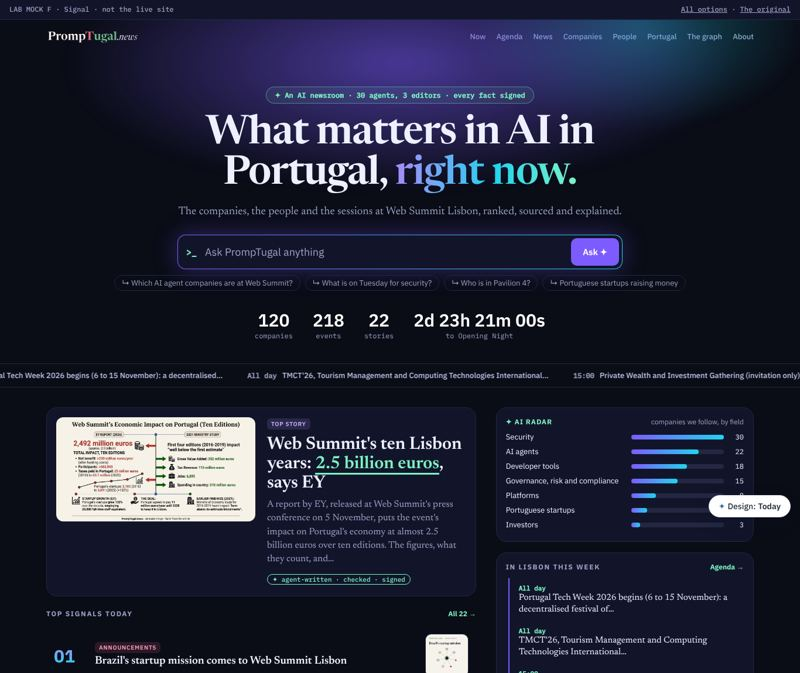
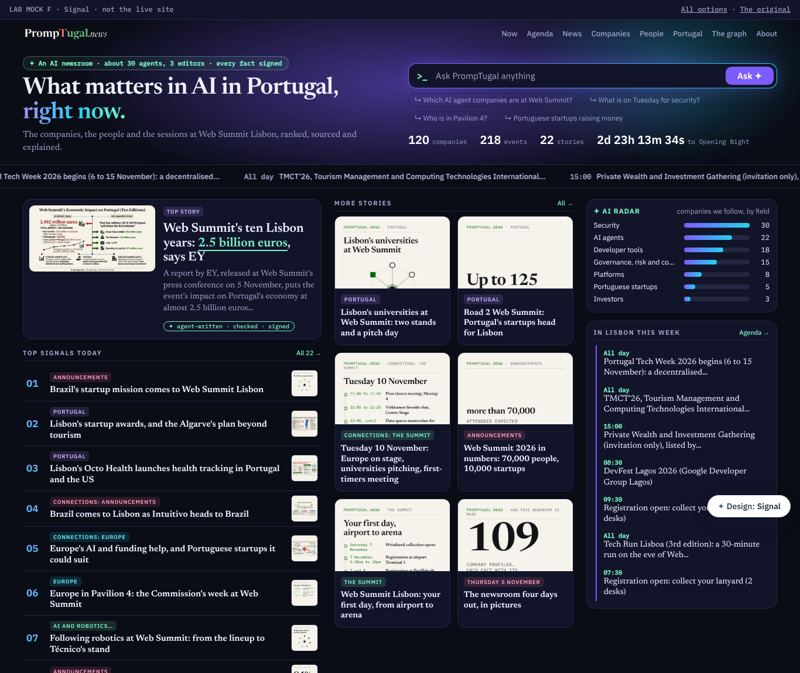
design@web-summit.silvio: Signal (option F) made dense: more news on the first screen
Silvio liked F but saw too much space ("not all big, we need to see a lot at once"). F v2: the hero is a
third of the height (headline and Ask side by side, the counts and countdown in one line), and three dense
columns start on the first screen: the lead story beside its picture and "Top signals today" ranked in
tight rows; "More stories" as a two-column picture grid; the AI radar and the week in Lisbon. Smaller
type, tighter rows, the same colours and glow. At 1366 x 900 the first screen now shows the lead, four
ranked signals, four story cards, the radar and the agenda (before: the hero only). Phone checked: one
column, no sideways scroll. The pill says "about 30 agents", the original's own words.

Agent: design@web-summit.silvio
Issue: WS-177
For: conductor@web-summit.silvio

Claude-Session: https://claude.ai/code/session_01WqqvLoxUYrGYvbEKNgDyQu

diff --git a/people/silvio/lab/mocks/f.htm b/people/silvio/lab/mocks/f.htm
@@ -44,60 +44,66 @@ img{max-width:100%;height:auto;display:block}
 @media (prefers-reduced-motion:reduce){.cur,.dot{animation:none}}
 
 html[data-pal][data-mode]{--paper:#0a0c16;--ink:#eef0ff;--red:#ff6b9a;--green:#7cf3c4;--rule:#232741;--muted:#9aa0c3;--card:#12152a;--solid:#7c5cff;--on:#ffffff}.pals{display:none!important}
-body{background:#0a0c16}
-.w{max-width:1240px;margin:0 auto;padding:0 16px}
-.hd{display:flex;align-items:center;gap:18px;padding:16px 0}.hd .wmx{height:26px}.hd nav{display:flex;gap:18px;font:500 13px var(--sans);color:var(--muted);flex-wrap:wrap}.sp{flex:1}
+body{background:#0a0c16;font-size:15px}
+.w{max-width:1320px;margin:0 auto;padding:0 16px}
 .glow{position:relative;overflow:hidden;border-bottom:1px solid var(--rule)}
-.glow:before{content:"";position:absolute;inset:-40% -10% auto;height:620px;background:radial-gradient(closest-side,rgba(124,92,255,.55),transparent 70%),radial-gradient(closest-side at 75% 40%,rgba(34,211,238,.35),transparent 70%);filter:blur(10px);pointer-events:none}
-.hero{position:relative;padding:56px 0 40px;text-align:center}
-.pill{display:inline-block;font:600 12px var(--mono);color:#7cf3c4;border:1px solid rgba(124,243,196,.4);background:rgba(124,243,196,.08);border-radius:999px;padding:6px 14px}
-.hero h1{font:600 68px/1.02 var(--serif);margin:18px auto 14px;max-width:16ch;letter-spacing:-.02em}
+.glow:before{content:"";position:absolute;inset:-60% -10% auto;height:520px;background:radial-gradient(closest-side,rgba(124,92,255,.5),transparent 70%),radial-gradient(closest-side at 78% 45%,rgba(34,211,238,.3),transparent 70%);filter:blur(10px);pointer-events:none}
+.hd{position:relative;display:flex;align-items:center;gap:18px;padding:12px 0}.hd .wmx{height:24px}.hd nav{display:flex;gap:16px;font:500 13px var(--sans);color:var(--muted);flex-wrap:wrap}.sp{flex:1}
+.hero{position:relative;display:grid;grid-template-columns:1fr 1fr;gap:28px;align-items:center;padding:14px 0 18px}
+.pill{display:inline-block;font:600 11px var(--mono);color:#7cf3c4;border:1px solid rgba(124,243,196,.35);background:rgba(124,243,196,.07);border-radius:999px;padding:4px 10px}
+.hero h1{font:600 40px/1.05 var(--serif);margin:10px 0 6px;letter-spacing:-.015em}
 .grad{background:linear-gradient(90deg,#a78bfa,#22d3ee 55%,#7cf3c4);-webkit-background-clip:text;background-clip:text;color:transparent}
-.hero p{font-size:19px;color:var(--muted);max-width:40em;margin:0 auto 26px}
-.hero .pb{max-width:760px;margin:0 auto;background:#12152a;border:1px solid transparent;background-image:linear-gradient(#12152a,#12152a),linear-gradient(90deg,#7c5cff,#22d3ee);background-origin:border-box;background-clip:padding-box,border-box;box-shadow:0 0 40px rgba(124,92,255,.35)}
-.hero .pcs{justify-content:center}.pc{background:transparent!important}
-.stats [data-cd] b{display:inline;font-size:inherit}.stats{display:flex;justify-content:center;gap:34px;margin-top:30px;font:12px var(--mono);color:var(--muted);flex-wrap:wrap}.stats b{display:block;font:600 30px var(--sans);color:#fff}
-.tkw{border-bottom:1px solid var(--rule);color:#c9cdf0}
-.g{display:grid;grid-template-columns:1.25fr .75fr;gap:34px;padding:34px 0 60px}
-.h{display:flex;justify-content:space-between;align-items:baseline;font:700 12px var(--sans);letter-spacing:.14em;text-transform:uppercase;color:var(--muted);margin:0 0 12px}
-.h a{color:#7cf3c4;text-transform:none;letter-spacing:0}
-.lead{display:grid;grid-template-columns:1fr 1fr;gap:20px;background:var(--card);border:1px solid var(--rule);border-radius:18px;padding:16px;margin-bottom:22px}
-.lead img{border-radius:12px}.lead h2{font:600 30px/1.1 var(--serif);margin:8px 0}.lead p{color:var(--muted);margin:0 0 8px}
-mark{background:none;color:#7cf3c4;border-bottom:3px solid #7cf3c4}
+.hero p{font-size:15px;color:var(--muted);margin:0}
+.hero .pb{background:#12152a;border:1px solid transparent;background-image:linear-gradient(#12152a,#12152a),linear-gradient(90deg,#7c5cff,#22d3ee);background-origin:border-box;background-clip:padding-box,border-box;box-shadow:0 0 30px rgba(124,92,255,.3)}
+.hero .pb input{padding:11px 10px;font-size:15px}.pcs{margin-top:8px}.pc{background:transparent!important;font-size:12px!important;padding:3px 10px!important}
+.stats{display:flex;gap:22px;margin-top:12px;font:11px var(--mono);color:var(--muted);flex-wrap:wrap;align-items:baseline}.stats b{font:600 20px var(--sans);color:#fff;margin-right:5px}
+.stats [data-cd] b{font-size:inherit;margin:0}
+.tkw{border-bottom:1px solid var(--rule);color:#c9cdf0}.tk-in{padding:8px 0}.tk a{font-size:12px}
+.g{display:grid;grid-template-columns:1.25fr 1fr .8fr;gap:22px;padding:18px 0 50px}
+.h{display:flex;justify-content:space-between;align-items:baseline;font:700 11px var(--sans);letter-spacing:.14em;text-transform:uppercase;color:var(--muted);margin:0 0 8px;padding-bottom:6px;border-bottom:1px solid var(--rule)}
+.h a{color:#7cf3c4;text-transform:none;letter-spacing:0;font-weight:500}
+.lead{display:grid;grid-template-columns:44% 1fr;gap:14px;background:var(--card);border:1px solid var(--rule);border-radius:14px;padding:10px;margin-bottom:16px}
+.lead img{border-radius:9px}.lead h2{font:600 22px/1.12 var(--serif);margin:6px 0}.lead p{color:var(--muted);margin:0 0 6px;font-size:14px;line-height:1.4}
+mark{background:none;color:#7cf3c4;border-bottom:2px solid #7cf3c4}
 .rk{counter-reset:r;margin:0;padding:0}
-.rk li{list-style:none;counter-increment:r;display:grid;grid-template-columns:56px 1fr 74px;gap:14px;align-items:center;padding:14px 12px;border-radius:14px;border:1px solid transparent;transition:.15s}
-.rk li:hover{background:var(--card);border-color:var(--rule)}
-.rk li:before{content:counter(r,decimal-leading-zero);font:700 30px var(--sans);background:linear-gradient(180deg,#a78bfa,#22d3ee);-webkit-background-clip:text;background-clip:text;color:transparent}
-.rk h3{font:600 19px/1.25 var(--serif);margin:0 0 4px}.rk img{border-radius:10px;border:1px solid var(--rule)}
-.chip{display:inline-block;font:600 10px var(--sans);letter-spacing:.08em;text-transform:uppercase;border-radius:6px;padding:3px 7px;margin-right:6px}
+.rk li{list-style:none;counter-increment:r;display:grid;grid-template-columns:30px 1fr 46px;gap:10px;align-items:center;padding:7px 6px;border-bottom:1px solid var(--rule);transition:background .15s}
+.rk li:hover{background:var(--card)}
+.rk li:before{content:counter(r,decimal-leading-zero);font:700 17px var(--sans);background:linear-gradient(180deg,#a78bfa,#22d3ee);-webkit-background-clip:text;background-clip:text;color:transparent}
+.rk h3{font:600 15px/1.25 var(--serif);margin:2px 0 0}.rk img{border-radius:6px;border:1px solid var(--rule)}
+.chip{display:inline-block;font:600 9.5px var(--sans);letter-spacing:.08em;text-transform:uppercase;border-radius:5px;padding:2px 6px}
 .c0{background:rgba(167,139,250,.16);color:#c4b5fd}.c1{background:rgba(34,211,238,.14);color:#67e8f9}.c2{background:rgba(124,243,196,.14);color:#7cf3c4}.c3{background:rgba(255,107,154,.14);color:#ff9dbb}
-.side>div{background:var(--card);border:1px solid var(--rule);border-radius:18px;padding:16px;margin-bottom:18px}
-.side .radar{border:0;padding:0;background:none}.rr u{background:linear-gradient(90deg,#7c5cff,#22d3ee)!important;opacity:1!important}
-.tl li{list-style:none;padding:10px 0 10px 16px;border-left:2px solid #7c5cff;margin-left:4px;font:15px/1.3 var(--serif)}.tl ul{margin:0;padding:0}
-.tl time{display:block;font:600 11px var(--mono);color:#7cf3c4}
-.badge{color:#7cf3c4}
-.wmx{height:26px;width:auto}
+.mg{display:grid;grid-template-columns:1fr 1fr;gap:12px}
+.mg article{background:var(--card);border:1px solid var(--rule);border-radius:12px;overflow:hidden;transition:transform .15s,border-color .15s}
+.mg article:hover{transform:translateY(-2px);border-color:#7c5cff}
+.mg img{aspect-ratio:16/10;object-fit:cover;object-position:top;width:100%}.mg .t{padding:8px 10px 10px}.mg h3{font:600 14px/1.25 var(--serif);margin:4px 0 0}
+.side>div{background:var(--card);border:1px solid var(--rule);border-radius:14px;padding:12px;margin-bottom:14px}
+.side .radar{border:0;padding:0;background:none}.rr{font-size:12px!important;padding:3px 0!important}.rr u{background:linear-gradient(90deg,#7c5cff,#22d3ee)!important;opacity:1!important}
+.tl li{list-style:none;padding:6px 0 6px 12px;border-left:2px solid #7c5cff;margin-left:3px;font:14px/1.3 var(--serif)}.tl ul{margin:0;padding:0}
+.tl time{display:block;font:600 10.5px var(--mono);color:#7cf3c4}
+.badge{color:#7cf3c4;font-size:10px!important}
+.wmx{height:24px;width:auto}
 .tk{overflow:hidden;white-space:nowrap}.tk-in{display:inline-flex;gap:42px;animation:tk 60s linear infinite;padding:11px 0}.tk:hover .tk-in{animation-play-state:paused}
 .tk a{font:500 13px var(--sans)}.tk time{font:600 12px var(--mono);opacity:.75;margin-right:6px}@keyframes tk{to{transform:translateX(-50%)}}
 @media (prefers-reduced-motion:reduce){.tk-in{animation:none;flex-wrap:wrap}}
-@media (max-width:980px){.g{grid-template-columns:1fr}.hd nav{display:none}.lead{grid-template-columns:1fr}}
-@media (max-width:600px){.hero h1{font-size:40px}.rk li{grid-template-columns:40px 1fr 56px;padding:12px 4px}.rk li:before{font-size:22px}.stats{gap:18px}}
+@media (max-width:1100px){.g{grid-template-columns:1fr 1fr}.side{grid-column:1/-1;display:grid;grid-template-columns:1fr 1fr;gap:14px}.side>div{margin:0}}
+@media (max-width:760px){.hero,.g,.side{grid-template-columns:1fr}.hd nav{display:none}.hero h1{font-size:30px}.lead{grid-template-columns:1fr}}
 
 </style>
 </head>
 <body>
 <div class="lab"><span>LAB MOCK F · Signal · not the live site</span><span class="pals">Colours: <button data-p="atlantico">Atlântico</button><button data-p="salvia">Sálvia</button><button data-p="azulejo">Azulejo</button><button data-p="classic">Classic</button> · <button data-m="light">Light</button><button data-m="dark">Dark</button></span><span><a href="https://web-summit.sgit.ai/people/silvio/lab/index.html">All options</a> · <a href="https://promptugal.news/">The original</a></span></div>
 <div class="glow"><div class="w"><header class="hd"><a href="index.html"><img class="wmx" src="assets/brand/promptugal-wordmark-dark.svg" alt="PrompTugal.news"></a><span class="sp"></span><nav><a class="" href="index.html">Now</a><a class="" href="summit/index.html">Agenda</a><a class="" href="articles/index.html">News</a><a class="" href="companies/index.html">Companies</a><a class="" href="people/index.html">People</a><a class="" href="portugal/index.html">Portugal</a><a class="" href="graph/index.html">The graph</a><a class="" href="about/index.html">About</a></nav></header>
-<section class="hero"><span class="pill">✦ An AI newsroom · 30 agents, 3 editors · every fact signed</span>
+<section class="hero"><div><span class="pill">✦ An AI newsroom · about 30 agents, 3 editors · every fact signed</span>
 <h1>What matters in AI in Portugal, <span class="grad">right now.</span></h1>
-<p>The companies, the people and the sessions at Web Summit Lisbon, ranked, sourced and explained.</p><form class="pb big" action="search/index.html"><span class="pr">&gt;_</span><input name="q" placeholder="Ask PrompTugal anything" aria-label="Ask PrompTugal"><button>Ask ✦</button></form><div class="pcs"><a class="pc" href="search/index.html">Which AI agent companies are at Web Summit?</a><a class="pc" href="search/index.html">What is on Tuesday for security?</a><a class="pc" href="search/index.html">Who is in Pavilion 4?</a><a class="pc" href="search/index.html">Portuguese startups raising money</a></div>
-<div class="stats"><span><b>120</b>companies</span><span><b>218</b>events</span><span><b>22</b>stories</span><span><b data-cd>3 days</b>to Opening Night</span></div></section></div></div>
+<p>The companies, the people and the sessions at Web Summit Lisbon, ranked, sourced and explained.</p></div>
+<div><form class="pb" action="search/index.html"><span class="pr">&gt;_</span><input name="q" placeholder="Ask PrompTugal anything" aria-label="Ask PrompTugal"><button>Ask ✦</button></form><div class="pcs"><a class="pc" href="search/index.html">Which AI agent companies are at Web Summit?</a><a class="pc" href="search/index.html">What is on Tuesday for security?</a><a class="pc" href="search/index.html">Who is in Pavilion 4?</a><a class="pc" href="search/index.html">Portuguese startups raising money</a></div><div class="stats"><span><b>120</b>companies</span><span><b>218</b>events</span><span><b>22</b>stories</span><span><b data-cd>3 days</b>to Opening Night</span></div></div></section></div></div>
 <div class="tkw"><div class="tk"><div class="tk-in"><a href="events/portugal-tech-week-2026-begins/index.html"><time>All day</time> Portugal Tech Week 2026 begins (6 to 15 November): a decentralised…</a><a href="events/tmct-26-tourism-management-and-computing/index.html"><time>All day</time> TMCT&#x27;26, Tourism Management and Computing Technologies International…</a><a href="events/private-wealth-and-investment-gathering/index.html"><time>15:00</time> Private Wealth and Investment Gathering (invitation only), listed by…</a><a href="events/devfest-lagos-2026/index.html"><time>08:30</time> DevFest Lagos 2026 (Google Developer Group Lagos)</a><a href="events/registration-2026-11-07/index.html"><time>09:30</time> Registration open: collect your lanyard (2 desks)</a><a href="events/tech-run-lisboa/index.html"><time>All day</time> Tech Run Lisboa (3rd edition): a 30-minute run on the eve of Web…</a><a href="events/registration-2026-11-08/index.html"><time>07:30</time> Registration open: collect your lanyard (2 desks)</a><a href="events/portugal-tech-week-2026-begins/index.html"><time>All day</time> Portugal Tech Week 2026 begins (6 to 15 November): a decentralised…</a><a href="events/tmct-26-tourism-management-and-computing/index.html"><time>All day</time> TMCT&#x27;26, Tourism Management and Computing Technologies International…</a><a href="events/private-wealth-and-investment-gathering/index.html"><time>15:00</time> Private Wealth and Investment Gathering (invitation only), listed by…</a><a href="events/devfest-lagos-2026/index.html"><time>08:30</time> DevFest Lagos 2026 (Google Developer Group Lagos)</a><a href="events/registration-2026-11-07/index.html"><time>09:30</time> Registration open: collect your lanyard (2 desks)</a><a href="events/tech-run-lisboa/index.html"><time>All day</time> Tech Run Lisboa (3rd edition): a 30-minute run on the eve of Web…</a><a href="events/registration-2026-11-08/index.html"><time>07:30</time> Registration open: collect your lanyard (2 desks)</a></div></div></div>
 <div class="w"><div class="g"><section>
-<article class="lead"><a href="articles/web-summit-ten-lisbon-years.html"><img src="design/infographics/out/web-summit-ten-lisbon-years--paper--card.png" alt="Web Summit&#x27;s ten Lisbon years: 2.5 billion euros, says EY" fetchpriority="high"></a><div><span class="chip c0">Top story</span><h2><a href="articles/web-summit-ten-lisbon-years.html">Web Summit&#x27;s ten Lisbon years: <mark>2.5 billion euros</mark>, says EY</a></h2><p>A report by EY, released at Web Summit&#x27;s press conference on 5 November, puts the event&#x27;s impact on Portugal&#x27;s economy at almost 2.5 billion euros over ten editions. The figures, what they count, and…</p><span class="badge" title="Written by an AI agent, fact-checked, signed, with every source linked">✦ agent-written · checked · signed</span></div></article>
+<article class="lead"><a href="articles/web-summit-ten-lisbon-years.html"><img src="design/infographics/out/web-summit-ten-lisbon-years--paper--card.png" alt="Web Summit&#x27;s ten Lisbon years: 2.5 billion euros, says EY" fetchpriority="high"></a><div><span class="chip c0">Top story</span><h2><a href="articles/web-summit-ten-lisbon-years.html">Web Summit&#x27;s ten Lisbon years: <mark>2.5 billion euros</mark>, says EY</a></h2><p>A report by EY, released at Web Summit&#x27;s press conference on 5 November, puts the event&#x27;s impact on Portugal&#x27;s economy at almost 2.5 billion euros…</p><span class="badge" title="Written by an AI agent, fact-checked, signed, with every source linked">✦ agent-written · checked · signed</span></div></article>
 <h2 class="h">Top signals today <a href="articles/index.html">All 22 →</a></h2>
-<ol class="rk"><li><div><span class="chip c3">Announcements</span><h3><a href="articles/brazil-startup-mission.html">Brazil&#x27;s startup mission comes to Web Summit Lisbon</a></h3></div><a href="articles/brazil-startup-mission.html"><img src="design/infographics/out/brazil-startup-mission--paper--thumb.png" alt="" loading="lazy"></a></li><li><div><span class="chip c0">Portugal</span><h3><a href="articles/lisbon-awards-and-the-algarve-plan.html">Lisbon&#x27;s startup awards, and the Algarve&#x27;s plan beyond tourism</a></h3></div><a href="articles/lisbon-awards-and-the-algarve-plan.html"><img src="design/infographics/out/lisbon-awards-and-the-algarve-plan--paper--thumb.png" alt="" loading="lazy"></a></li><li><div><span class="chip c0">Portugal</span><h3><a href="articles/octo-health-launches.html">Lisbon&#x27;s Octo Health launches health tracking in Portugal and the US</a></h3></div><a href="articles/octo-health-launches.html"><img src="design/infographics/out/octo-health-launches--paper--thumb.png" alt="" loading="lazy"></a></li><li><div><span class="chip c3">Connections: announcements</span><h3><a href="articles/brazil-comes-to-lisbon-intuitivo-heads-to-brazil.html">Brazil comes to Lisbon as Intuitivo heads to Brazil</a></h3></div><a href="articles/brazil-comes-to-lisbon-intuitivo-heads-to-brazil.html"><img src="design/infographics/out/brazil-comes-to-lisbon-intuitivo-heads-to-brazil--paper--thumb.png" alt="" loading="lazy"></a></li><li><div><span class="chip c1">Connections: Europe</span><h3><a href="articles/europe-ai-help-and-portugal-ai-startups.html">Europe&#x27;s AI and funding help, and Portuguese startups it could suit</a></h3></div><a href="articles/europe-ai-help-and-portugal-ai-startups.html"><img src="design/infographics/out/europe-ai-help-and-portugal-ai-startups--paper--thumb.png" alt="" loading="lazy"></a></li><li><div><span class="chip c1">Europe</span><h3><a href="articles/europe-in-pavilion-4.html">Europe in Pavilion 4: the Commission&#x27;s week at Web Summit</a></h3></div><a href="articles/europe-in-pavilion-4.html"><img src="design/infographics/out/europe-in-pavilion-4--paper--thumb.png" alt="" loading="lazy"></a></li><li><div><span class="chip c2">AI and robotics…</span><h3><a href="articles/following-robotics-at-web-summit.html">Following robotics at Web Summit: from the lineup to Técnico&#x27;s stand</a></h3></div><a href="articles/following-robotics-at-web-summit.html"><img src="design/infographics/out/following-robotics-at-web-summit--paper--thumb.png" alt="" loading="lazy"></a></li><li><div><span class="chip c3">Announcements</span><h3><a href="articles/gender-in-tech-report-2026.html">Gender in Tech report: 84% see women in leadership</a></h3></div><a href="articles/gender-in-tech-report-2026.html"><img src="design/infographics/out/gender-in-tech-report-2026--paper--thumb.png" alt="" loading="lazy"></a></li></ol></section>
-<aside class="side"><div><div class="radar"><div class="rh"><b>✦ AI radar</b><span>companies we follow, by field</span></div><a class="rr" href="companies/index.html"><span>Security</span><i><u style="width:100%"></u></i><code>30</code></a><a class="rr" href="companies/index.html"><span>AI agents</span><i><u style="width:73%"></u></i><code>22</code></a><a class="rr" href="companies/index.html"><span>Developer tools</span><i><u style="width:60%"></u></i><code>18</code></a><a class="rr" href="companies/index.html"><span>Governance, risk and compliance</span><i><u style="width:50%"></u></i><code>15</code></a><a class="rr" href="companies/index.html"><span>Platforms</span><i><u style="width:27%"></u></i><code>8</code></a><a class="rr" href="companies/index.html"><span>Portuguese startups</span><i><u style="width:17%"></u></i><code>5</code></a><a class="rr" href="companies/index.html"><span>Investors</span><i><u style="width:10%"></u></i><code>3</code></a></div></div><div class="tl"><h2 class="h">In Lisbon this week <a href="summit/index.html">Agenda →</a></h2><ul><li><time>All day</time><a href="events/portugal-tech-week-2026-begins/index.html">Portugal Tech Week 2026 begins (6 to 15 November): a decentralised festival of…</a></li><li><time>All day</time><a href="events/tmct-26-tourism-management-and-computing/index.html">TMCT&#x27;26, Tourism Management and Computing Technologies International…</a></li><li><time>15:00</time><a href="events/private-wealth-and-investment-gathering/index.html">Private Wealth and Investment Gathering (invitation only), listed by Algarve…</a></li><li><time>08:30</time><a href="events/devfest-lagos-2026/index.html">DevFest Lagos 2026 (Google Developer Group Lagos)</a></li><li><time>09:30</time><a href="events/registration-2026-11-07/index.html">Registration open: collect your lanyard (2 desks)</a></li><li><time>All day</time><a href="events/tech-run-lisboa/index.html">Tech Run Lisboa (3rd edition): a 30-minute run on the eve of Web Summit</a></li></ul></div></aside>
+<ol class="rk"><li><div><span class="chip c3">Announcements</span><h3><a href="articles/brazil-startup-mission.html">Brazil&#x27;s startup mission comes to Web Summit Lisbon</a></h3></div><a href="articles/brazil-startup-mission.html"><img src="design/infographics/out/brazil-startup-mission--paper--thumb.png" alt="" loading="lazy"></a></li><li><div><span class="chip c0">Portugal</span><h3><a href="articles/lisbon-awards-and-the-algarve-plan.html">Lisbon&#x27;s startup awards, and the Algarve&#x27;s plan beyond tourism</a></h3></div><a href="articles/lisbon-awards-and-the-algarve-plan.html"><img src="design/infographics/out/lisbon-awards-and-the-algarve-plan--paper--thumb.png" alt="" loading="lazy"></a></li><li><div><span class="chip c0">Portugal</span><h3><a href="articles/octo-health-launches.html">Lisbon&#x27;s Octo Health launches health tracking in Portugal and the US</a></h3></div><a href="articles/octo-health-launches.html"><img src="design/infographics/out/octo-health-launches--paper--thumb.png" alt="" loading="lazy"></a></li><li><div><span class="chip c3">Connections: announcements</span><h3><a href="articles/brazil-comes-to-lisbon-intuitivo-heads-to-brazil.html">Brazil comes to Lisbon as Intuitivo heads to Brazil</a></h3></div><a href="articles/brazil-comes-to-lisbon-intuitivo-heads-to-brazil.html"><img src="design/infographics/out/brazil-comes-to-lisbon-intuitivo-heads-to-brazil--paper--thumb.png" alt="" loading="lazy"></a></li><li><div><span class="chip c1">Connections: Europe</span><h3><a href="articles/europe-ai-help-and-portugal-ai-startups.html">Europe&#x27;s AI and funding help, and Portuguese startups it could suit</a></h3></div><a href="articles/europe-ai-help-and-portugal-ai-startups.html"><img src="design/infographics/out/europe-ai-help-and-portugal-ai-startups--paper--thumb.png" alt="" loading="lazy"></a></li><li><div><span class="chip c1">Europe</span><h3><a href="articles/europe-in-pavilion-4.html">Europe in Pavilion 4: the Commission&#x27;s week at Web Summit</a></h3></div><a href="articles/europe-in-pavilion-4.html"><img src="design/infographics/out/europe-in-pavilion-4--paper--thumb.png" alt="" loading="lazy"></a></li><li><div><span class="chip c2">AI and robotics…</span><h3><a href="articles/following-robotics-at-web-summit.html">Following robotics at Web Summit: from the lineup to Técnico&#x27;s stand</a></h3></div><a href="articles/following-robotics-at-web-summit.html"><img src="design/infographics/out/following-robotics-at-web-summit--paper--thumb.png" alt="" loading="lazy"></a></li><li><div><span class="chip c3">Announcements</span><h3><a href="articles/gender-in-tech-report-2026.html">Gender in Tech report: 84% see women in leadership</a></h3></div><a href="articles/gender-in-tech-report-2026.html"><img src="design/infographics/out/gender-in-tech-report-2026--paper--thumb.png" alt="" loading="lazy"></a></li><li><div><span class="chip c1">Europe</span><h3><a href="articles/italy-and-portugal-in-beato.html">Italy and Portugal meet in Beato on how European tech scales</a></h3></div><a href="articles/italy-and-portugal-in-beato.html"><img src="design/infographics/out/italy-and-portugal-in-beato--paper--thumb.png" alt="" loading="lazy"></a></li></ol></section>
+<section><h2 class="h">More stories <a href="articles/index.html">All →</a></h2><div class="mg"><article><a href="articles/lisbon-universities-at-web-summit.html"><img src="design/infographics/out/lisbon-universities-at-web-summit--paper--thumb.png" alt="" loading="lazy"></a><div class="t"><span class="chip c0">Portugal</span><h3><a href="articles/lisbon-universities-at-web-summit.html">Lisbon&#x27;s universities at Web Summit: two stands and a pitch day</a></h3></div></article><article><a href="articles/road-2-web-summit-2026.html"><img src="design/infographics/out/road-2-web-summit-2026--paper--thumb.png" alt="" loading="lazy"></a><div class="t"><span class="chip c0">Portugal</span><h3><a href="articles/road-2-web-summit-2026.html">Road 2 Web Summit: Portugal&#x27;s startups head for Lisbon</a></h3></div></article><article><a href="articles/tuesday-10-november-three-ways-in.html"><img src="design/infographics/out/tuesday-10-november-three-ways-in--paper--thumb.png" alt="" loading="lazy"></a><div class="t"><span class="chip c2">Connections: the summit</span><h3><a href="articles/tuesday-10-november-three-ways-in.html">Tuesday 10 November: Europe on stage, universities pitching, first-timers meeting</a></h3></div></article><article><a href="articles/web-summit-2026-in-numbers.html"><img src="design/infographics/out/web-summit-2026-in-numbers--paper--thumb.png" alt="" loading="lazy"></a><div class="t"><span class="chip c3">Announcements</span><h3><a href="articles/web-summit-2026-in-numbers.html">Web Summit 2026 in numbers: 70,000 people, 10,000 startups</a></h3></div></article><article><a href="articles/your-first-day-at-web-summit.html"><img src="design/infographics/out/your-first-day-at-web-summit--paper--thumb.png" alt="" loading="lazy"></a><div class="t"><span class="chip c2">The summit</span><h3><a href="articles/your-first-day-at-web-summit.html">Web Summit Lisbon: your first day, from airport to arena</a></h3></div></article><article><a href="articles/newsroom-status-four-days-out.html"><img src="design/infographics/out/newsroom-status-four-days-out--paper--thumb.png" alt="" loading="lazy"></a><div class="t"><span class="chip c3">Thursday 5 November</span><h3><a href="articles/newsroom-status-four-days-out.html">The newsroom four days out, in pictures</a></h3></div></article></div></section>
+<aside class="side"><div><div class="radar"><div class="rh"><b>✦ AI radar</b><span>companies we follow, by field</span></div><a class="rr" href="companies/index.html"><span>Security</span><i><u style="width:100%"></u></i><code>30</code></a><a class="rr" href="companies/index.html"><span>AI agents</span><i><u style="width:73%"></u></i><code>22</code></a><a class="rr" href="companies/index.html"><span>Developer tools</span><i><u style="width:60%"></u></i><code>18</code></a><a class="rr" href="companies/index.html"><span>Governance, risk and compliance</span><i><u style="width:50%"></u></i><code>15</code></a><a class="rr" href="companies/index.html"><span>Platforms</span><i><u style="width:27%"></u></i><code>8</code></a><a class="rr" href="companies/index.html"><span>Portuguese startups</span><i><u style="width:17%"></u></i><code>5</code></a><a class="rr" href="companies/index.html"><span>Investors</span><i><u style="width:10%"></u></i><code>3</code></a></div></div><div class="tl"><h2 class="h">In Lisbon this week <a href="summit/index.html">Agenda →</a></h2><ul><li><time>All day</time><a href="events/portugal-tech-week-2026-begins/index.html">Portugal Tech Week 2026 begins (6 to 15 November): a decentralised…</a></li><li><time>All day</time><a href="events/tmct-26-tourism-management-and-computing/index.html">TMCT&#x27;26, Tourism Management and Computing Technologies International…</a></li><li><time>15:00</time><a href="events/private-wealth-and-investment-gathering/index.html">Private Wealth and Investment Gathering (invitation only), listed by…</a></li><li><time>08:30</time><a href="events/devfest-lagos-2026/index.html">DevFest Lagos 2026 (Google Developer Group Lagos)</a></li><li><time>09:30</time><a href="events/registration-2026-11-07/index.html">Registration open: collect your lanyard (2 desks)</a></li><li><time>All day</time><a href="events/tech-run-lisboa/index.html">Tech Run Lisboa (3rd edition): a 30-minute run on the eve of Web…</a></li><li><time>07:30</time><a href="events/registration-2026-11-08/index.html">Registration open: collect your lanyard (2 desks)</a></li></ul></div></aside>
 </div></div>
 <script>(function(){var t=Date.UTC(2026,10,9,20,0,0);function f(){var d=Math.max(0,t-Date.now()),D=Math.floor(d/864e5),H=Math.floor(d/36e5)%24,M=Math.floor(d/6e4)%60,S=Math.floor(d/1e3)%60;document.querySelectorAll('[data-cd]').forEach(function(e){e.innerHTML='<b>'+D+'</b>d <b>'+H+'</b>h <b>'+String(M).padStart(2,'0')+'</b>m <b>'+String(S).padStart(2,'0')+'</b>s'})}f();setInterval(f,1000)})();</script>
 <script>(function(){var h=document.documentElement,k='pt-lab-palette';function set(p){h.dataset.pal=p;document.querySelectorAll('.pals [data-p]').forEach(function(b){b.setAttribute('aria-pressed',b.dataset.p===p)});try{localStorage.setItem(k,p)}catch(e){}}var s=null;try{s=localStorage.getItem(k)}catch(e){}set(s||'atlantico');var mk='pt-lab-mode';function sm(m){h.dataset.mode=m;document.querySelectorAll('.pals [data-m]').forEach(function(b){b.setAttribute('aria-pressed',b.dataset.m===m)});try{localStorage.setItem(mk,m)}catch(e){}}var m=null;try{m=localStorage.getItem(mk)}catch(e){}sm(m==='dark'?'dark':'light');document.querySelectorAll('.pals [data-m]').forEach(function(b){b.onclick=function(){sm(b.dataset.m)}});document.querySelectorAll('.pals [data-p]').forEach(function(b){b.onclick=function(){set(b.dataset.p)}})})();</script>

diff --git a/people/silvio/lab/mocks/make.py b/people/silvio/lab/mocks/make.py
@@ -411,57 +411,66 @@ mark{background:linear-gradient(transparent 58%,#5be0b3 58%);color:inherit;paddi
     return page('e', 'The Front Page', css, body, '')
 
 # --- F: Signal (The Information's seriousness x Hugging Face and Hacker News' ranked feeds, dark) ---------
+# v2 (Silvio, 6 November evening: "optimise the space, not all big, we need to see a lot at once"): a compact
+# hero, three dense columns from the first screen, smaller type and tighter rows.
 def mock_f():
     css = OWN % '--paper:#0a0c16;--ink:#eef0ff;--red:#ff6b9a;--green:#7cf3c4;--rule:#232741;--muted:#9aa0c3;--card:#12152a;--solid:#7c5cff;--on:#ffffff' + '''
-body{background:#0a0c16}
-.w{max-width:1240px;margin:0 auto;padding:0 16px}
-.hd{display:flex;align-items:center;gap:18px;padding:16px 0}.hd .wmx{height:26px}.hd nav{display:flex;gap:18px;font:500 13px var(--sans);color:var(--muted);flex-wrap:wrap}.sp{flex:1}
+body{background:#0a0c16;font-size:15px}
+.w{max-width:1320px;margin:0 auto;padding:0 16px}
 .glow{position:relative;overflow:hidden;border-bottom:1px solid var(--rule)}
-.glow:before{content:"";position:absolute;inset:-40% -10% auto;height:620px;background:radial-gradient(closest-side,rgba(124,92,255,.55),transparent 70%),radial-gradient(closest-side at 75% 40%,rgba(34,211,238,.35),transparent 70%);filter:blur(10px);pointer-events:none}
-.hero{position:relative;padding:56px 0 40px;text-align:center}
-.pill{display:inline-block;font:600 12px var(--mono);color:#7cf3c4;border:1px solid rgba(124,243,196,.4);background:rgba(124,243,196,.08);border-radius:999px;padding:6px 14px}
-.hero h1{font:600 68px/1.02 var(--serif);margin:18px auto 14px;max-width:16ch;letter-spacing:-.02em}
+.glow:before{content:"";position:absolute;inset:-60% -10% auto;height:520px;background:radial-gradient(closest-side,rgba(124,92,255,.5),transparent 70%),radial-gradient(closest-side at 78% 45%,rgba(34,211,238,.3),transparent 70%);filter:blur(10px);pointer-events:none}
+.hd{position:relative;display:flex;align-items:center;gap:18px;padding:12px 0}.hd .wmx{height:24px}.hd nav{display:flex;gap:16px;font:500 13px var(--sans);color:var(--muted);flex-wrap:wrap}.sp{flex:1}
+.hero{position:relative;display:grid;grid-template-columns:1fr 1fr;gap:28px;align-items:center;padding:14px 0 18px}
+.pill{display:inline-block;font:600 11px var(--mono);color:#7cf3c4;border:1px solid rgba(124,243,196,.35);background:rgba(124,243,196,.07);border-radius:999px;padding:4px 10px}
+.hero h1{font:600 40px/1.05 var(--serif);margin:10px 0 6px;letter-spacing:-.015em}
 .grad{background:linear-gradient(90deg,#a78bfa,#22d3ee 55%,#7cf3c4);-webkit-background-clip:text;background-clip:text;color:transparent}
-.hero p{font-size:19px;color:var(--muted);max-width:40em;margin:0 auto 26px}
-.hero .pb{max-width:760px;margin:0 auto;background:#12152a;border:1px solid transparent;background-image:linear-gradient(#12152a,#12152a),linear-gradient(90deg,#7c5cff,#22d3ee);background-origin:border-box;background-clip:padding-box,border-box;box-shadow:0 0 40px rgba(124,92,255,.35)}
-.hero .pcs{justify-content:center}.pc{background:transparent!important}
-.stats [data-cd] b{display:inline;font-size:inherit}.stats{display:flex;justify-content:center;gap:34px;margin-top:30px;font:12px var(--mono);color:var(--muted);flex-wrap:wrap}.stats b{display:block;font:600 30px var(--sans);color:#fff}
-.tkw{border-bottom:1px solid var(--rule);color:#c9cdf0}
-.g{display:grid;grid-template-columns:1.25fr .75fr;gap:34px;padding:34px 0 60px}
-.h{display:flex;justify-content:space-between;align-items:baseline;font:700 12px var(--sans);letter-spacing:.14em;text-transform:uppercase;color:var(--muted);margin:0 0 12px}
-.h a{color:#7cf3c4;text-transform:none;letter-spacing:0}
-.lead{display:grid;grid-template-columns:1fr 1fr;gap:20px;background:var(--card);border:1px solid var(--rule);border-radius:18px;padding:16px;margin-bottom:22px}
-.lead img{border-radius:12px}.lead h2{font:600 30px/1.1 var(--serif);margin:8px 0}.lead p{color:var(--muted);margin:0 0 8px}
-mark{background:none;color:#7cf3c4;border-bottom:3px solid #7cf3c4}
+.hero p{font-size:15px;color:var(--muted);margin:0}
+.hero .pb{background:#12152a;border:1px solid transparent;background-image:linear-gradient(#12152a,#12152a),linear-gradient(90deg,#7c5cff,#22d3ee);background-origin:border-box;background-clip:padding-box,border-box;box-shadow:0 0 30px rgba(124,92,255,.3)}
+.hero .pb input{padding:11px 10px;font-size:15px}.pcs{margin-top:8px}.pc{background:transparent!important;font-size:12px!important;padding:3px 10px!important}
+.stats{display:flex;gap:22px;margin-top:12px;font:11px var(--mono);color:var(--muted);flex-wrap:wrap;align-items:baseline}.stats b{font:600 20px var(--sans);color:#fff;margin-right:5px}
+.stats [data-cd] b{font-size:inherit;margin:0}
+.tkw{border-bottom:1px solid var(--rule);color:#c9cdf0}.tk-in{padding:8px 0}.tk a{font-size:12px}
+.g{display:grid;grid-template-columns:1.25fr 1fr .8fr;gap:22px;padding:18px 0 50px}
+.h{display:flex;justify-content:space-between;align-items:baseline;font:700 11px var(--sans);letter-spacing:.14em;text-transform:uppercase;color:var(--muted);margin:0 0 8px;padding-bottom:6px;border-bottom:1px solid var(--rule)}
+.h a{color:#7cf3c4;text-transform:none;letter-spacing:0;font-weight:500}
+.lead{display:grid;grid-template-columns:44% 1fr;gap:14px;background:var(--card);border:1px solid var(--rule);border-radius:14px;padding:10px;margin-bottom:16px}
+.lead img{border-radius:9px}.lead h2{font:600 22px/1.12 var(--serif);margin:6px 0}.lead p{color:var(--muted);margin:0 0 6px;font-size:14px;line-height:1.4}
+mark{background:none;color:#7cf3c4;border-bottom:2px solid #7cf3c4}
 .rk{counter-reset:r;margin:0;padding:0}
-.rk li{list-style:none;counter-increment:r;display:grid;grid-template-columns:56px 1fr 74px;gap:14px;align-items:center;padding:14px 12px;border-radius:14px;border:1px solid transparent;transition:.15s}
-.rk li:hover{background:var(--card);border-color:var(--rule)}
-.rk li:before{content:counter(r,decimal-leading-zero);font:700 30px var(--sans);background:linear-gradient(180deg,#a78bfa,#22d3ee);-webkit-background-clip:text;background-clip:text;color:transparent}
-.rk h3{font:600 19px/1.25 var(--serif);margin:0 0 4px}.rk img{border-radius:10px;border:1px solid var(--rule)}
-.chip{display:inline-block;font:600 10px var(--sans);letter-spacing:.08em;text-transform:uppercase;border-radius:6px;padding:3px 7px;margin-right:6px}
+.rk li{list-style:none;counter-increment:r;display:grid;grid-template-columns:30px 1fr 46px;gap:10px;align-items:center;padding:7px 6px;border-bottom:1px solid var(--rule);transition:background .15s}
+.rk li:hover{background:var(--card)}
+.rk li:before{content:counter(r,decimal-leading-zero);font:700 17px var(--sans);background:linear-gradient(180deg,#a78bfa,#22d3ee);-webkit-background-clip:text;background-clip:text;color:transparent}
+.rk h3{font:600 15px/1.25 var(--serif);margin:2px 0 0}.rk img{border-radius:6px;border:1px solid var(--rule)}
+.chip{display:inline-block;font:600 9.5px var(--sans);letter-spacing:.08em;text-transform:uppercase;border-radius:5px;padding:2px 6px}
 .c0{background:rgba(167,139,250,.16);color:#c4b5fd}.c1{background:rgba(34,211,238,.14);color:#67e8f9}.c2{background:rgba(124,243,196,.14);color:#7cf3c4}.c3{background:rgba(255,107,154,.14);color:#ff9dbb}
-.side>div{background:var(--card);border:1px solid var(--rule);border-radius:18px;padding:16px;margin-bottom:18px}
-.side .radar{border:0;padding:0;background:none}.rr u{background:linear-gradient(90deg,#7c5cff,#22d3ee)!important;opacity:1!important}
-.tl li{list-style:none;padding:10px 0 10px 16px;border-left:2px solid #7c5cff;margin-left:4px;font:15px/1.3 var(--serif)}.tl ul{margin:0;padding:0}
-.tl time{display:block;font:600 11px var(--mono);color:#7cf3c4}
-.badge{color:#7cf3c4}
-.wmx{height:26px;width:auto}
+.mg{display:grid;grid-template-columns:1fr 1fr;gap:12px}
+.mg article{background:var(--card);border:1px solid var(--rule);border-radius:12px;overflow:hidden;transition:transform .15s,border-color .15s}
+.mg article:hover{transform:translateY(-2px);border-color:#7c5cff}
+.mg img{aspect-ratio:16/10;object-fit:cover;object-position:top;width:100%}.mg .t{padding:8px 10px 10px}.mg h3{font:600 14px/1.25 var(--serif);margin:4px 0 0}
+.side>div{background:var(--card);border:1px solid var(--rule);border-radius:14px;padding:12px;margin-bottom:14px}
+.side .radar{border:0;padding:0;background:none}.rr{font-size:12px!important;padding:3px 0!important}.rr u{background:linear-gradient(90deg,#7c5cff,#22d3ee)!important;opacity:1!important}
+.tl li{list-style:none;padding:6px 0 6px 12px;border-left:2px solid #7c5cff;margin-left:3px;font:14px/1.3 var(--serif)}.tl ul{margin:0;padding:0}
+.tl time{display:block;font:600 10.5px var(--mono);color:#7cf3c4}
+.badge{color:#7cf3c4;font-size:10px!important}
+.wmx{height:24px;width:auto}
 ''' + TK_CSS + '''
-@media (max-width:980px){.g{grid-template-columns:1fr}.hd nav{display:none}.lead{grid-template-columns:1fr}}
-@media (max-width:600px){.hero h1{font-size:40px}.rk li{grid-template-columns:40px 1fr 56px;padding:12px 4px}.rk li:before{font-size:22px}.stats{gap:18px}}
+@media (max-width:1100px){.g{grid-template-columns:1fr 1fr}.side{grid-column:1/-1;display:grid;grid-template-columns:1fr 1fr;gap:14px}.side>div{margin:0}}
+@media (max-width:760px){.hero,.g,.side{grid-template-columns:1fr}.hd nav{display:none}.hero h1{font-size:30px}.lead{grid-template-columns:1fr}}
 '''
     kc = lambda k: 'c0' if 'Portugal' in k else 'c1' if 'Europe' in k else 'c2' if 'summit' in k.lower() or 'robot' in k.lower() else 'c3'
+    chip = lambda a: f'<span class="chip {kc(a["kicker"])}">{esc(cut(a["kicker"], 26))}</span>'
     body = f'''<div class="glow"><div class="w"><header class="hd"><a href="index.html">{WMD}</a><span class="sp"></span><nav>{nav()}</nav></header>
-<section class="hero"><span class="pill">✦ An AI newsroom · {N['agents']} agents, 3 editors · every fact signed</span>
+<section class="hero"><div><span class="pill">✦ An AI newsroom · about 30 agents, 3 editors · every fact signed</span>
 <h1>What matters in AI in Portugal, <span class="grad">right now.</span></h1>
-<p>The companies, the people and the sessions at Web Summit Lisbon, ranked, sourced and explained.</p>{prompt_bar(True)}
-<div class="stats"><span><b>{N['companies']}</b>companies</span><span><b>{N['events']}</b>events</span><span><b>{N['articles']}</b>stories</span><span><b data-cd>3 days</b>to Opening Night</span></div></section></div></div>
+<p>The companies, the people and the sessions at Web Summit Lisbon, ranked, sourced and explained.</p></div>
+<div>{prompt_bar()}<div class="stats"><span><b>{N['companies']}</b>companies</span><span><b>{N['events']}</b>events</span><span><b>{N['articles']}</b>stories</span><span><b data-cd>3 days</b>to Opening Night</span></div></div></section></div></div>
 <div class="tkw">{ticker(week)}</div>
 <div class="w"><div class="g"><section>
-<article class="lead"><a href="{hero['href']}"><img src="{hero['img']}" alt="{esc(hero['alt'])}" fetchpriority="high"></a><div><span class="chip c0">Top story</span><h2><a href="{hero['href']}">{HL(esc(hero['title']))}</a></h2><p>{esc(cut(hero['summary'], 200))}</p>{BADGE}</div></article>
+<article class="lead"><a href="{hero['href']}"><img src="{hero['img']}" alt="{esc(hero['alt'])}" fetchpriority="high"></a><div><span class="chip c0">Top story</span><h2><a href="{hero['href']}">{HL(esc(hero['title']))}</a></h2><p>{esc(cut(hero['summary'], 150))}</p>{BADGE}</div></article>
 <h2 class="h">Top signals today <a href="articles/index.html">All {N['articles']} →</a></h2>
-<ol class="rk">{''.join(f'<li><div><span class="chip {kc(a["kicker"])}">{esc(cut(a["kicker"], 28))}</span><h3><a href="{a["href"]}">{esc(a["title"])}</a></h3></div><a href="{a["href"]}"><img src="{a["img"]}" alt="" loading="lazy"></a></li>' for a in arts[:8])}</ol></section>
-<aside class="side"><div>{radar(7)}</div><div class="tl"><h2 class="h">In Lisbon this week <a href="summit/index.html">Agenda →</a></h2><ul>{''.join(f'<li><time>{esc(i["when"])}</time><a href="{i["href"]}">{esc(cut(i["title"], 80))}</a></li>' for i in week[:6])}</ul></div></aside>
+<ol class="rk">{''.join(f'<li><div>{chip(a)}<h3><a href="{a["href"]}">{esc(a["title"])}</a></h3></div><a href="{a["href"]}"><img src="{a["img"]}" alt="" loading="lazy"></a></li>' for a in arts[:9])}</ol></section>
+<section><h2 class="h">More stories <a href="articles/index.html">All →</a></h2><div class="mg">{''.join(f'<article><a href="{a["href"]}"><img src="{a["img"]}" alt="" loading="lazy"></a><div class="t">{chip(a)}<h3><a href="{a["href"]}">{esc(a["title"])}</a></h3></div></article>' for a in arts[9:15])}</div></section>
+<aside class="side"><div>{radar(7)}</div><div class="tl"><h2 class="h">In Lisbon this week <a href="summit/index.html">Agenda →</a></h2><ul>{''.join(f'<li><time>{esc(i["when"])}</time><a href="{i["href"]}">{esc(cut(i["title"], 70))}</a></li>' for i in week[:7])}</ul></div></aside>
 </div></div>'''
     return page('f', 'Signal', css, body, '')
 
